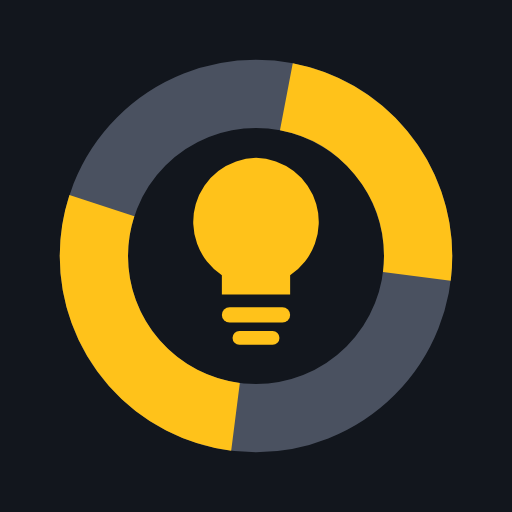
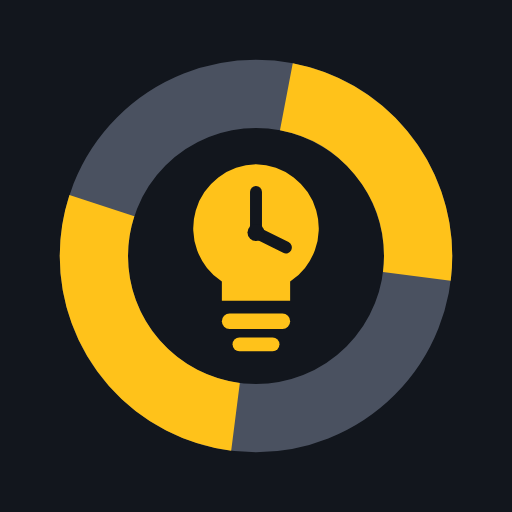
Іконка: лампочка зі стрілками годинника (18.6.1) (#19)
* chore(recon): temporary DTEK krem protocol probe (structure-only logs, no secrets)

Claude-Session: https://claude.ai/code/session_01CeUMQ6kd8PMwNELrLUb4dy

* chore(recon): use embedded street list, probe getHomeNum only

Claude-Session: https://claude.ai/code/session_01CeUMQ6kd8PMwNELrLUb4dy

* test: use neutral house number in fixtures and comments

Claude-Session: https://claude.ai/code/session_01CeUMQ6kd8PMwNELrLUb4dy

* Нова іконка застосунку: матриця годин (4x6 крапок)

24 крапки = 24 години доби, жовті - години зі світлом, біла обвідка -
поточна година. Maskable-версія зменшена до безпечної зони 80%.

Claude-Session: https://claude.ai/code/session_01CeUMQ6kd8PMwNELrLUb4dy

* Іконка: лампочка з крапок замість довільної матриці

Крапки на сітці 7x7 складають лампочку (жовті світяться, сірі - цоколь,
темні - вимкнені). Maskable-версія зменшена до безпечної зони 80%.

Claude-Session: https://claude.ai/code/session_01CeUMQ6kd8PMwNELrLUb4dy

* Іконка: лампочка рівно з 24 крапок

24 крапки (19 у склі, 5 у цоколі) на гексагональній сітці, 24 = години доби.

Claude-Session: https://claude.ai/code/session_01CeUMQ6kd8PMwNELrLUb4dy

* Іконка: повернуто матрицю годин 4x6

Лампочка з крапок не сподобалась власнику, повернуто варіант 4x6 (24 години).

Claude-Session: https://claude.ai/code/session_01CeUMQ6kd8PMwNELrLUb4dy

* chore(recon): log house key formats on neutral streets (protocol details)

Claude-Session: https://claude.ai/code/session_01CeUMQ6kd8PMwNELrLUb4dy
[…]

Changed region(s): [[0.375, 0.2812, 0.625, 0.5625], [0.4375, 0.5625, 0.5625, 0.6875], [0.375, 0.4688, 0.4375, 0.5625]]

diff --git a/src/App.tsx b/src/App.tsx
@@ -33,7 +33,7 @@ const STORAGE_KEY_SELECTED = 'svitlo_selected_address_id_v1';
 const STORAGE_KEY_QUIET = 'svitlo_quiet_hours_v1';
 // v2: the old key stored 'dark' for everyone (it was the default); the new default follows the system
 const STORAGE_KEY_THEME = 'svitlo_theme_v2';
-const CURRENT_BUILD_TIMESTAMP = '2026-11-10T13:00:00Z';
+const CURRENT_BUILD_TIMESTAMP = '2026-11-10T14:00:00Z';
 
 export const App: React.FC = () => {
   const [addresses, setAddresses] = useState<SavedAddress[]>(() => {

diff --git a/public/sw.js b/public/sw.js
@@ -1,4 +1,4 @@
-const CACHE_NAME = 'svitlo-pwa-v18-6';
+const CACHE_NAME = 'svitlo-pwa-v18-6-1';
 
 self.addEventListener('install', (event) => {
   self.skipWaiting();

diff --git a/IMPLEMENTATION_PLAN.md b/IMPLEMENTATION_PLAN.md
@@ -4,7 +4,7 @@
 
 ---
 
-> **Актуально на 2026-11-10 (v18.6.0):** Push-тексти переписано (час події замість «за 30 хв», тривалість, «було → стало», емодзі 🪫/🔋/🗓). UI переписан по дизайну B «Кільце доби» (12-часовой циферблат «G+»: главное кольцо = текущие 12 часов, прошлое приглушено, остаток подсвечен; тонкая внешняя дорожка = следующие 12 часов, после 12:00 — завтрашнее 00–12) (светлая + тёмная темы), строки интерфейса — украинские. Описания ниже про «почасовую сетку», `AddressSwitcher`, `HeroStatusCard`, `ScheduleView`, `AddressModal`, `NotificationSettingsModal`, выбор эмодзи и «ручной выбор группы как основной путь» — исторические. Сейчас: `DayRing`/`ScheduleList`, `AddressPage` (автоопределение группы: Киев — `svitlo-address`, область — `svitlo-lookup` + GitHub Actions; ручная сетка — только запас), `NotificationsPage` (фиксированные 30 мин). Подробности — `HANDOFF.md` §4 и §8.
+> **Актуально на 2026-11-10 (v18.6.1):** Push-тексти переписано (час події замість «за 30 хв», тривалість, «було → стало», емодзі 🪫/🔋/🗓). UI переписан по дизайну B «Кільце доби» (12-часовой циферблат «G+»: главное кольцо = текущие 12 часов, прошлое приглушено, остаток подсвечен; тонкая внешняя дорожка = следующие 12 часов, после 12:00 — завтрашнее 00–12) (светлая + тёмная темы), строки интерфейса — украинские. Описания ниже про «почасовую сетку», `AddressSwitcher`, `HeroStatusCard`, `ScheduleView`, `AddressModal`, `NotificationSettingsModal`, выбор эмодзи и «ручной выбор группы как основной путь» — исторические. Сейчас: `DayRing`/`ScheduleList`, `AddressPage` (автоопределение группы: Киев — `svitlo-address`, область — `svitlo-lookup` + GitHub Actions; ручная сетка — только запас), `NotificationsPage` (фиксированные 30 мин). Подробности — `HANDOFF.md` §4 и §8.
 
 ## 1. Описание задачи и пользовательские требования
 Разработать и поддерживать быстрое, удобное и эстетичное приложение для **iPhone (Progressive Web App для iOS 18.7+)** под названием **«Світло»**, работающее через **GitHub (`https://github.com/UkDC/dtek-svitlo-app`)** и опубликованное на **GitHub Pages (`https://ukdc.github.io/dtek-svitlo-app/`)**, для отслеживания актуальных графиков отключений электроэнергии в Украине:

diff --git a/HANDOFF.md b/HANDOFF.md
@@ -3,7 +3,7 @@
 > **App Name**: «Світло»  
 > **Repository**: [UkDC/dtek-svitlo-app](https://github.com/UkDC/dtek-svitlo-app) (branches: `main`, `gh-pages`)  
 > **Production URL**: [https://ukdc.github.io/dtek-svitlo-app/](https://ukdc.github.io/dtek-svitlo-app/)  
-> **Current Version**: `18.6.0` (sw cache `svitlo-pwa-v18-6`, build `2026-11-10T13:00:00Z`; keep `CURRENT_BUILD_TIMESTAMP` in `src/App.tsx` and `public/version.json` equal on release)  
+> **Current Version**: `18.6.1` (sw cache `svitlo-pwa-v18-6-1`, build `2026-11-10T14:00:00Z`; keep `CURRENT_BUILD_TIMESTAMP` in `src/App.tsx` and `public/version.json` equal on release)  
 > **Platform**: iPhone PWA (iOS 18.7+ Web Push over Apple APNs) + Desktop / Android responsive web app.
 
 ---
@@ -50,7 +50,7 @@
 
 #### 4. ✅ Test push: `✅ Сповіщення працюють` / `Попередимо за ~30 хв до відключення та увімкнення.` (`TEST_PUSH_TITLE/BODY`).
 
-> **App icon (18.6.0)**: the «Кільце доби» ring (yellow = light, grey = no light) with a light bulb in the centre; same palette as the app. Source of truth: `public/icon-192.svg`; `icon-180/192/512/maskable-512.png` are rendered from it (Playwright screenshot of the SVG). iOS caches the home-screen icon at install time → delete the PWA and add it again to see it.
+> **App icon (18.6.1)**: the «Кільце доби» ring (yellow = light, grey = no light) with a light bulb with clock hands inside it («light on a schedule») in the centre; same palette as the app. Source of truth: `public/icon-192.svg`; `icon-180/192/512/maskable-512.png` are rendered from it (Playwright screenshot of the SVG). iOS caches the home-screen icon at install time → delete the PWA and add it again to see it.
 
 > The emoji in titles are the only per-type visual cue on iPhone: iOS most likely ignores the payload `icon`/`badge`
 > (shows the PWA icon; reported by Apple forums / WebKit bug 280160, not verified by us). `icon-*.svg` matter for desktop/Android only.
@@ -154,7 +154,7 @@ live fetch; deploy workflow no longer sends pushes; PNG icons for iOS/Android; s
   daily cap, 20–90 s). Manual group grid is an emergency fallback shown only after a failed lookup.
   Kyiv house suggestions carry no group (the group is fetched on selection).
 - **Not verified on a real device**: the oblast lookup flow end-to-end in the installed PWA; the changed iOS status-bar
-  style (`default`). After the SW bump (`v18-6`) the installed PWA must be fully closed and reopened.
+  style (`default`). After the SW bump (`v18-6-1`) the installed PWA must be fully closed and reopened.
 - **Owner housekeeping**: revoke the temporary Cloudflare API token; the invite code appeared in a chat transcript
   (rotate `INVITE_CODES` in `svitlo-subs` and `svitlo-lookup` if concerned); the `svitlo-trigger`/`svitlo-lookup` GitHub PATs
   expire after one year; old `refs/pull/*/head` content needs a GitHub Support purge if it must disappear.
